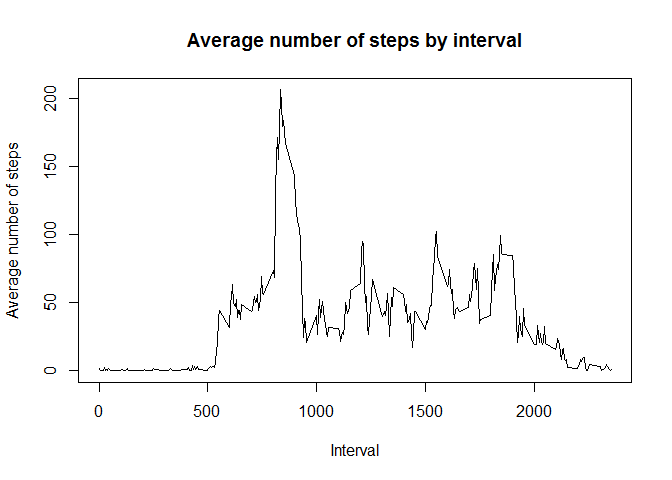
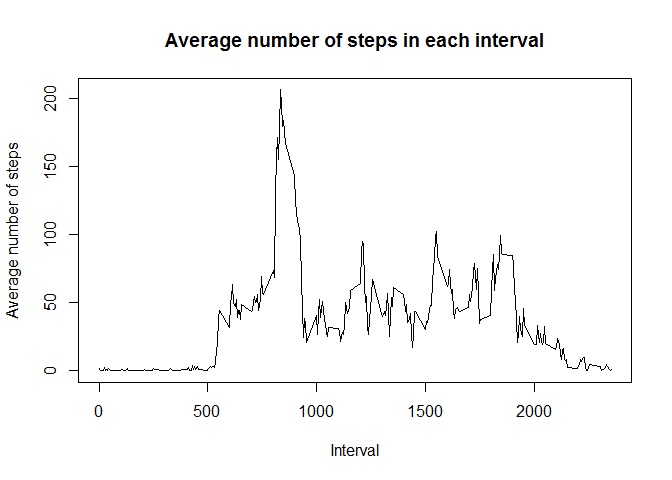
Commit 3

Changed region(s): [[0.25, 0.0625, 0.8125, 0.125]]

diff --git a/PA1_template.html b/PA1_template.html
@@ -168,8 +168,8 @@ summary(dataset_original)</code></pre>
 <div id="make-a-time-series-plot-i.e.type-l-of-the-5-minute-interval-x-axis-and-the-average-number-of-steps-taken-averaged-across-all-days-y-axis" class="section level4">
 <h4>1. Make a time series plot (i.e. type = “l”) of the 5-minute interval (x-axis) and the average number of steps taken, averaged across all days (y-axis)</h4>
 <pre class="r"><code>average_per_interval &lt;- group_by(dataset_original, interval)%&gt;%summarize(average_steps = mean(steps, na.rm = T))
-plot(average_per_interval$average_steps ~ average_per_interval$interval, type = &quot;l&quot;, main = &quot;Average number of steps by interval&quot;, xlab = &quot;Interval&quot;, ylab = &quot;Average number of steps&quot;)</code></pre>
[1 lines of base64/hex data omitted]
+plot(average_per_interval$average_steps ~ average_per_interval$interval, type = &quot;l&quot;, main = &quot;Average number of steps in each interval&quot;, xlab = &quot;Interval&quot;, ylab = &quot;Average number of steps&quot;)</code></pre>
[1 lines of base64/hex data omitted]
 </div>
 <div id="which-5-minute-interval-on-average-across-all-the-days-in-the-dataset-contains-the-maximum-number-of-steps" class="section level4">
 <h4>2. Which 5-minute interval, on average across all the days in the dataset, contains the maximum number of steps?</h4>

diff --git a/PA1_template.md b/PA1_template.md
@@ -145,7 +145,7 @@ median(total_per_day$total_steps, na.rm = T)
 
 ```r
 average_per_interval <- group_by(dataset_original, interval)%>%summarize(average_steps = mean(steps, na.rm = T))
-plot(average_per_interval$average_steps ~ average_per_interval$interval, type = "l", main = "Average number of steps by interval", xlab = "Interval", ylab = "Average number of steps")
+plot(average_per_interval$average_steps ~ average_per_interval$interval, type = "l", main = "Average number of steps in each interval", xlab = "Interval", ylab = "Average number of steps")
 ```
 
 ![](PA1_template_files/figure-html/unnamed-chunk-6-1.png) 
